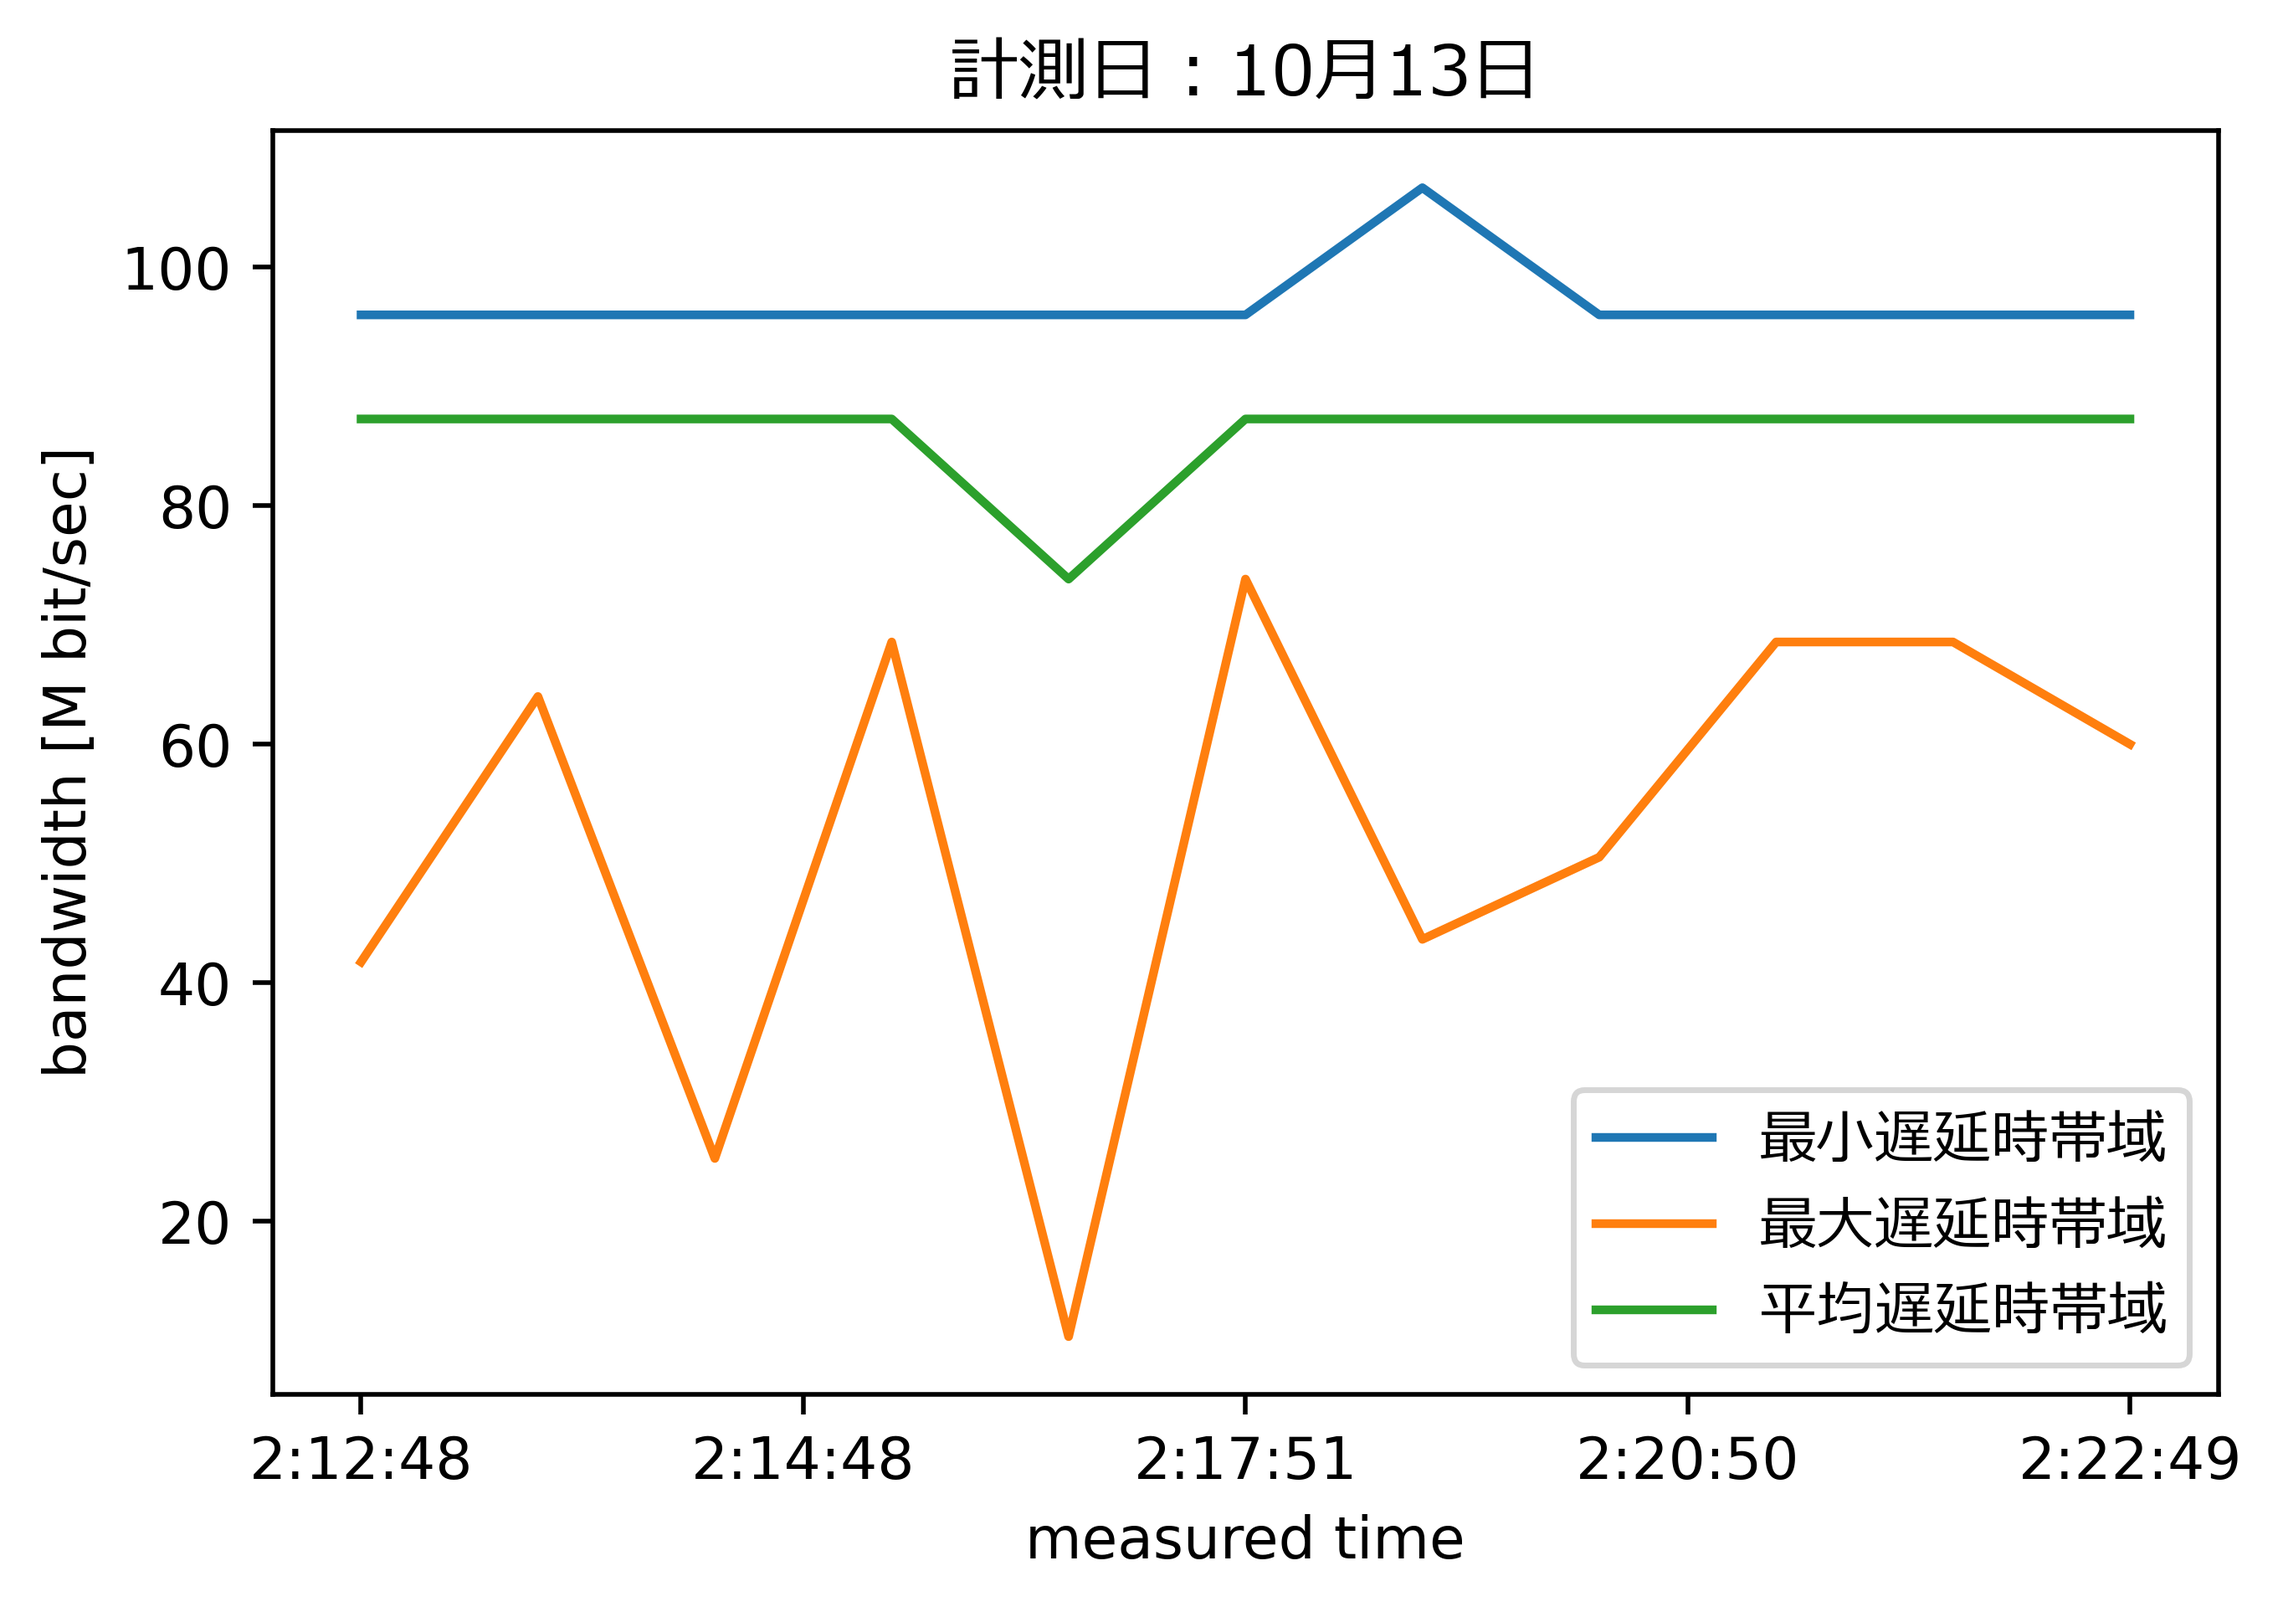
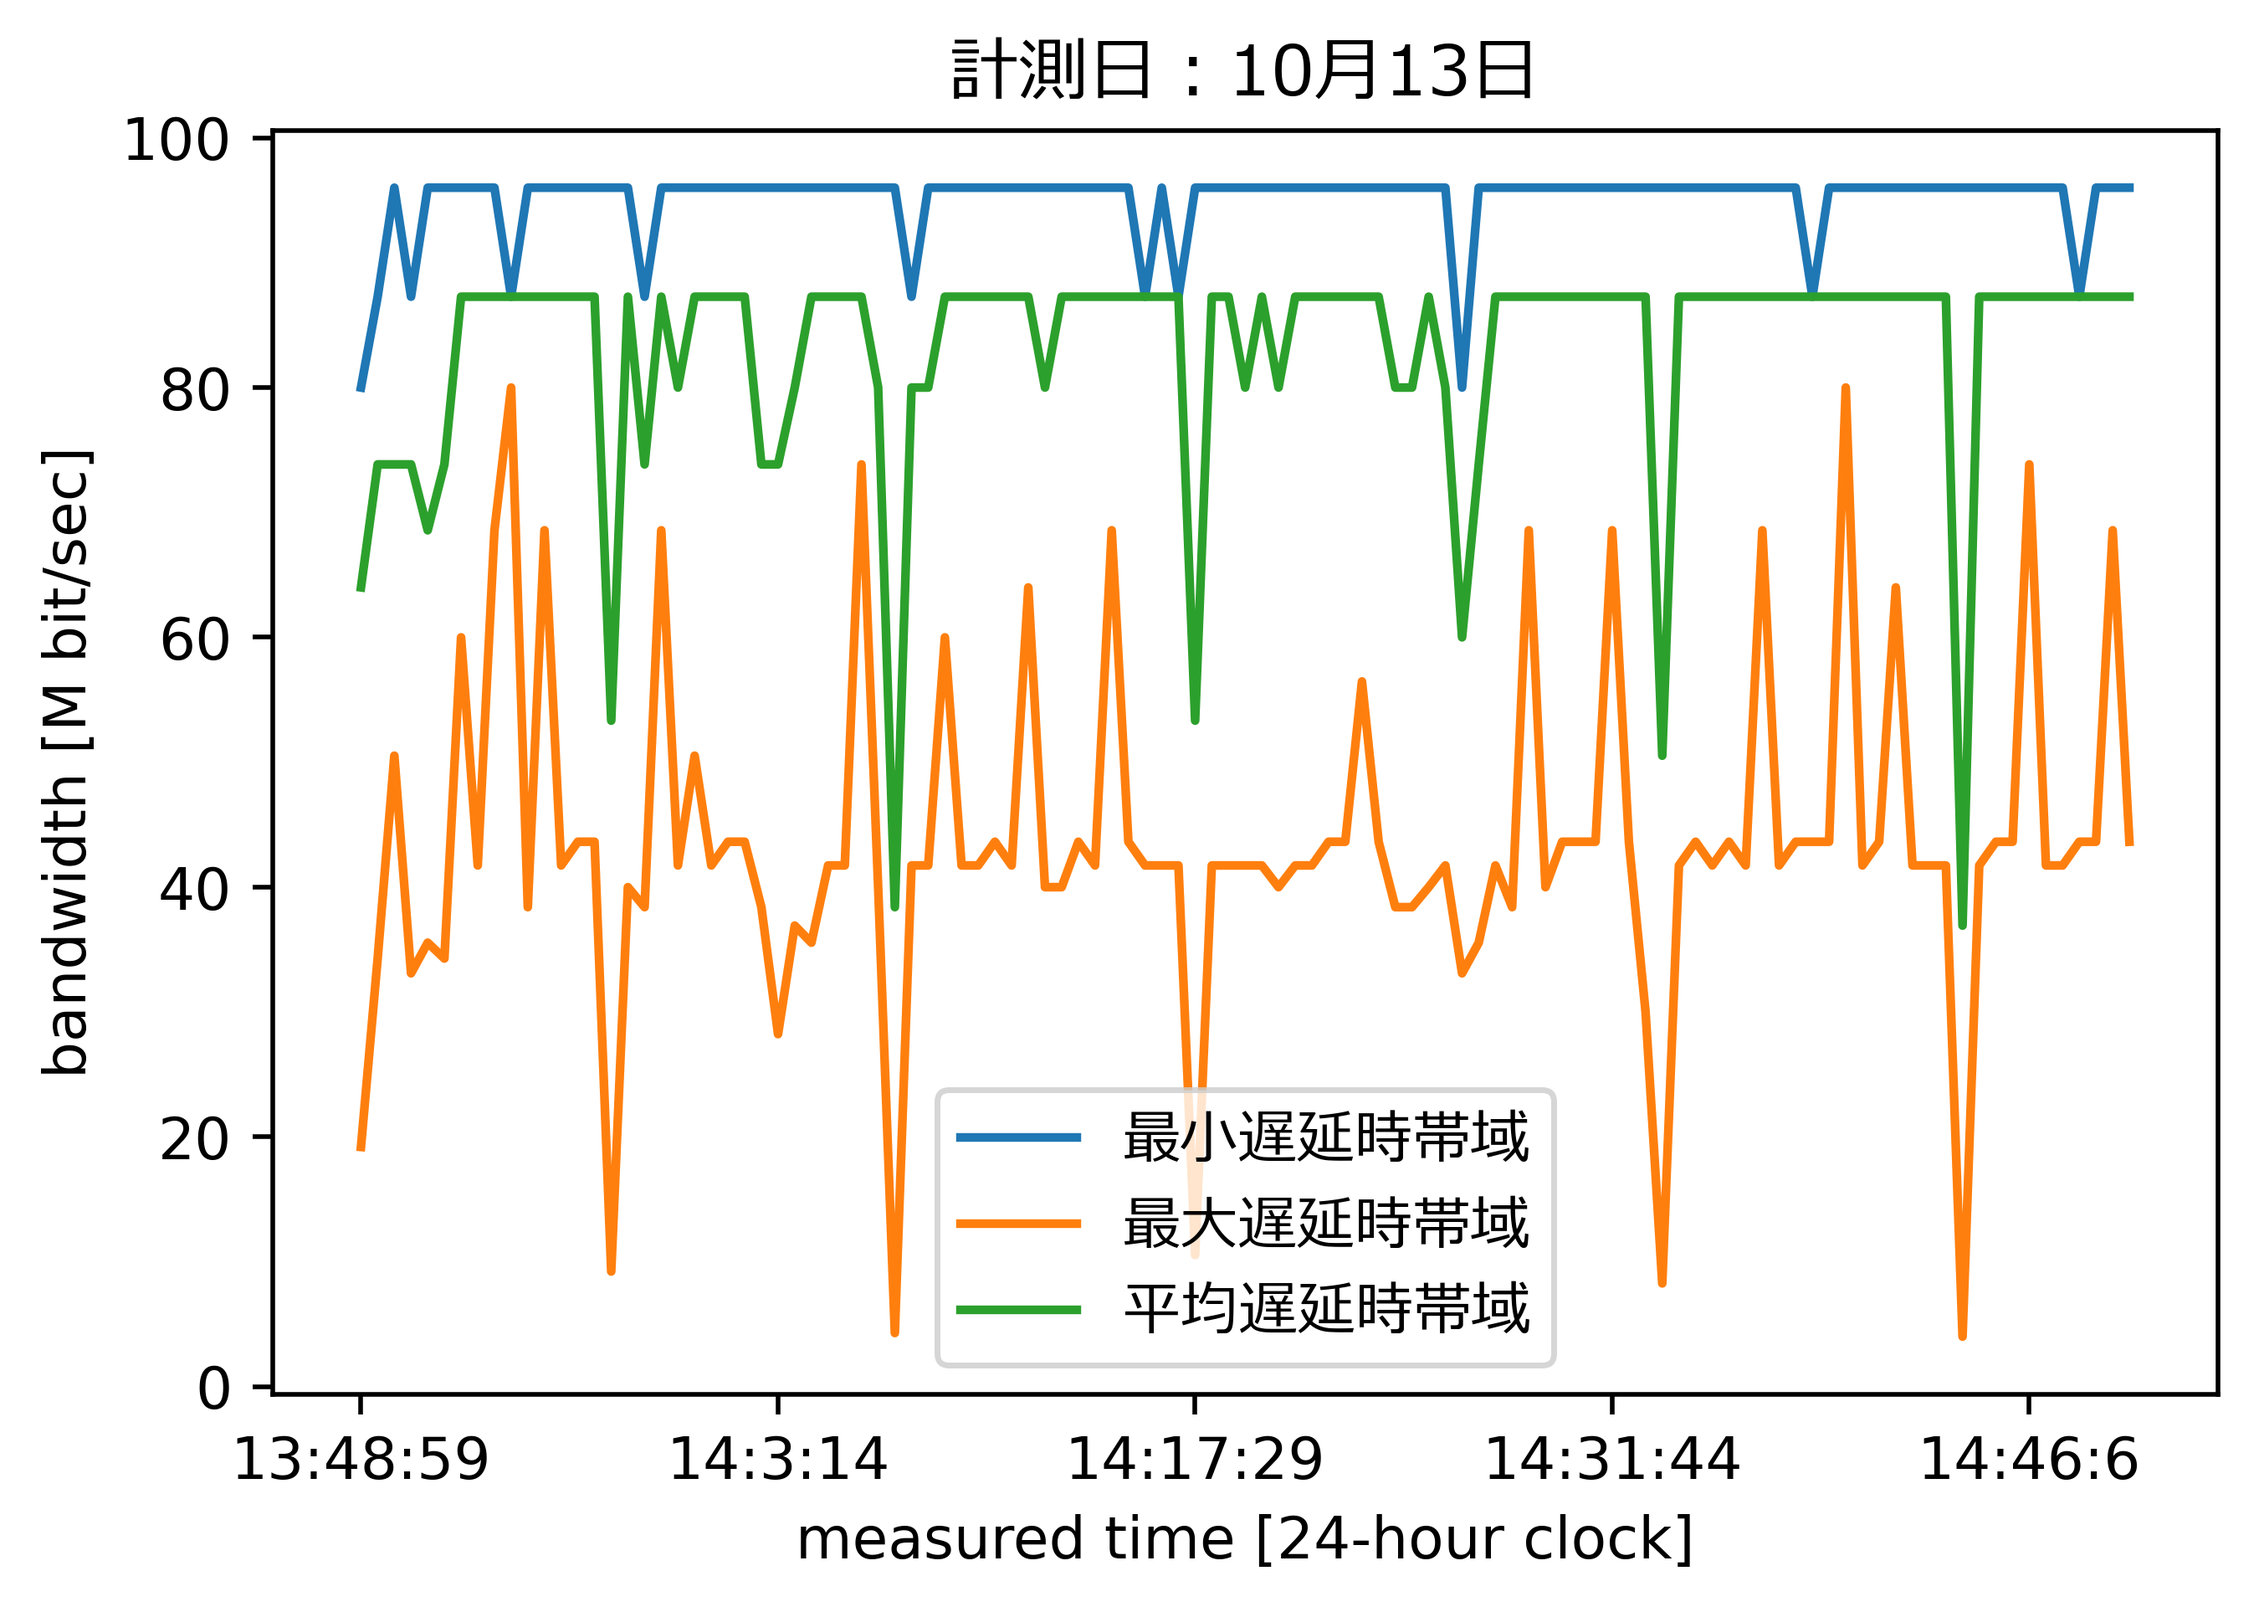
Edit　Readme

Changed region(s): [[0.1556, 0.0935, 0.9956, 0.9657], [0.0622, 0.0623, 0.2178, 0.9346], [0.4044, 0.0, 0.6844, 0.0623]]

diff --git a/cmd_win/varsion1/test.py b/cmd_win/varsion1/test.py
@@ -4,7 +4,7 @@ import win_comm as wc
 import numpy as np
 import matplotlib.pyplot as plt
 import pandas as pd # install openpyxl
-
+import time
 from matplotlib import ticker # 軸
 
 class Test :
@@ -46,6 +46,7 @@ class Test :
             execute_time = np.append(execute_time,[str(speed_test[0].hour) + ':' + str(speed_test[0].minute) + ':' + str(speed_test[0].second)])
 
             print(str(dt_end_time)+' done.')
+            time.sleep(10)
 
             if dt_diff > self.__t_d : break
 
@@ -87,9 +88,9 @@ class Test :
 if __name__ == '__main__':
     img_file = 'result.png'
     xlsx_file = 'data.xlsx'
-    packets_num = 60 # パケットの数
+    packets_num = 25 # パケットの数
     byte_num = 60000 # パケットのバイト数 = 60kB
     ip_addr = '192.168.1.18' # 送り先のIPアドレス
-    t_d = datetime.timedelta(days=0, seconds=0, microseconds=0, milliseconds=0, minutes=10, hours=0, weeks=0)
+    t_d = datetime.timedelta(days=0, seconds=0, microseconds=0, milliseconds=0, minutes=0, hours=1, weeks=0)
     v_win_test = Test(img_file,xlsx_file,packets_num,byte_num,ip_addr,t_d)
     v_win_test.run()

diff --git a/cmd_win/varsion1/win_comm.py b/cmd_win/varsion1/win_comm.py
@@ -75,6 +75,10 @@ class WinComm :
 
         result_ping = self.__return_num_from_cmd(self.__jp_ping_info,7)
 
+        if result_ping[4] == 0: result_ping[4] = 1 # 0の場合は1msecとする
+        if result_ping[5] == 0: result_ping[5] = 1 # 0の場合は1msecとする
+        if result_ping[6] == 0: result_ping[6] = 1 # 0の場合は1msecとする
+
         self.__min_band_bit = self.__size_p * 8 * 2 * 10**3 / result_ping[4]
         self.__max_band_bit = self.__size_p * 8 * 2 * 10**3 / result_ping[5]
         self.__mean_band_bit = self.__size_p * 8 * 2 * 10**3 / result_ping[6]

diff --git a/cmd_win/README.md b/cmd_win/README.md
@@ -1,0 +1,18 @@
+## 環境の構築
+基本的にwindowsでもubuntuでも仮想環境を構築する必要があります。
+```
+set VENV=py39
+python -m venv C:\Users\yohei\python_env\%VENV%
+```
+## ライブラリのインストール
+```
+set VENV=py39
+CALL C:\Users\yohei\python_env\%VENV%\Scripts\activate.bat
+python -m pip install -U pip
+
+python -m pip install matplotlib
+python -m pip install pandas
+python -m pip install openpyxl
+```
+## 計測手法
+- [version1](/version1/README.md)

diff --git a/cmd_win/varsion1/README.md b/cmd_win/varsion1/README.md
@@ -1,0 +1,2 @@
+## 動作
+指定したIPアドレスに、pingコマンドを送信しそれぞれの帯域を計測しました。
